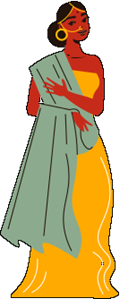
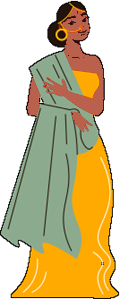
human work

Changed region(s): [[0.35, 0.0301, 0.875, 0.4515], [0.225, 0.2408, 0.35, 0.3913]]

diff --git a/src/HumanData.ts b/src/HumanData.ts
@@ -169,7 +169,7 @@ export class HumanData {
       case HumanName.Juro:
         return -0.08;
       case HumanName.Xiaoming:
-        return 0.04;
+        return -0.07;
       default:
         return 0;
     }
@@ -256,6 +256,8 @@ export class HumanData {
         return 0.65;
       case HumanName.Xiaoli:
         return 0.43;
+      case HumanName.Xiaoming:
+        return 0.5;
       default:
         return 0.6;
     }
